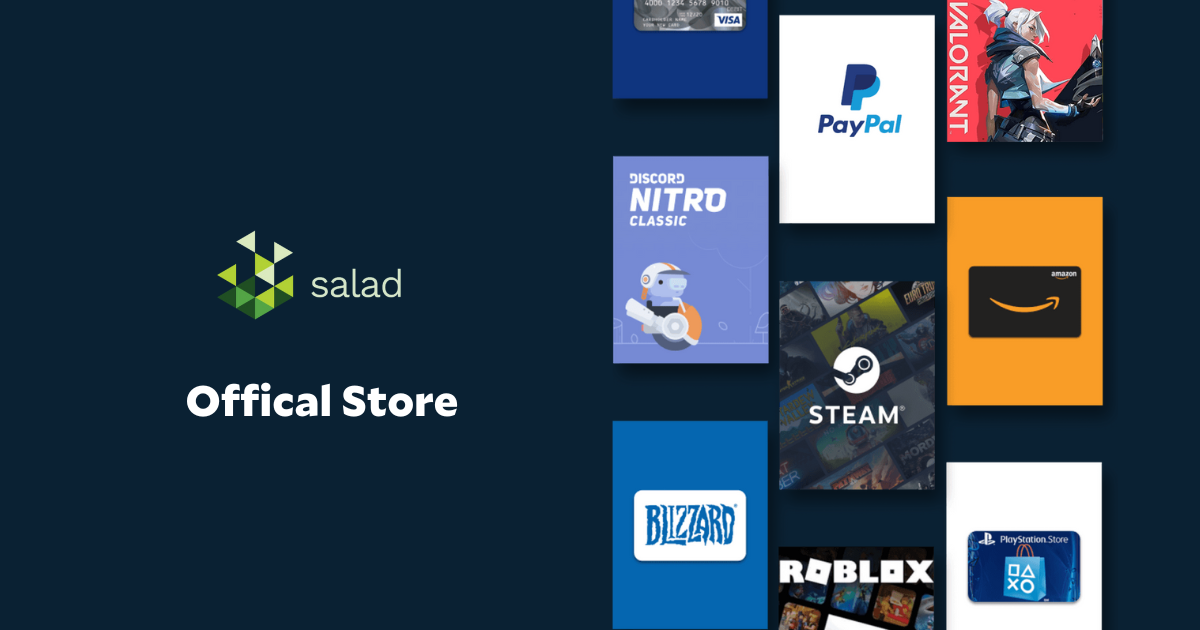
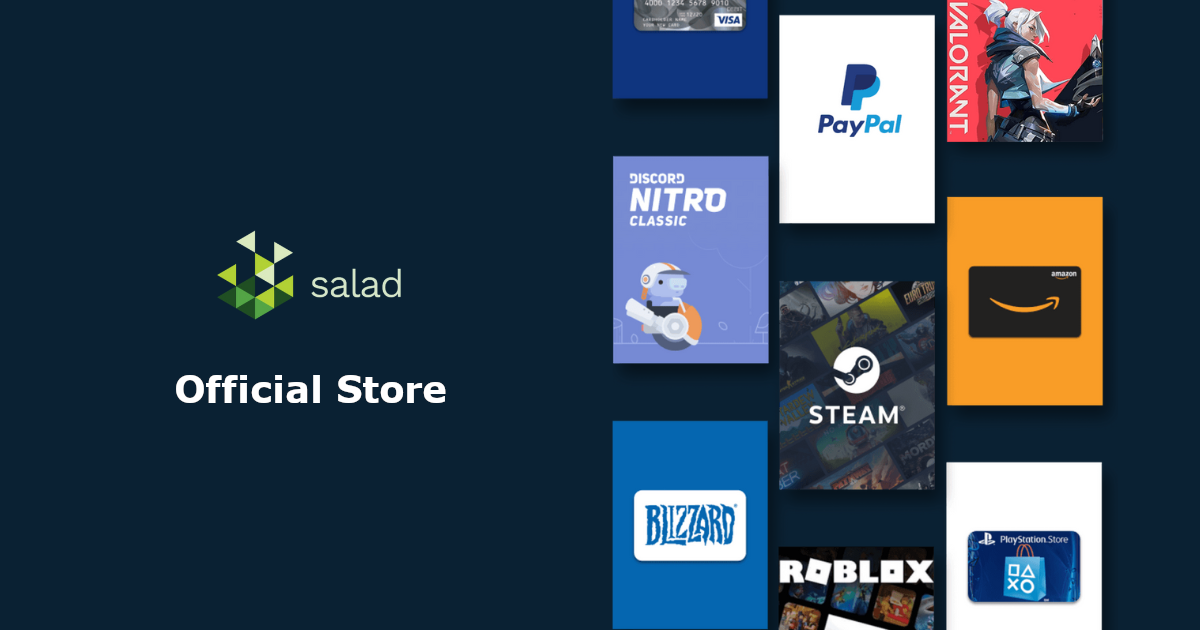
fix image and rename hook

Changed region(s): [[0.1233, 0.573, 0.4008, 0.6635]]

diff --git a/packages/web-app/src/hooks/useAddOgMetaTags.tsx b/packages/web-app/src/hooks/useAddOgMetaTags.tsx
@@ -1,10 +1,15 @@
 import { useEffect } from 'react'
 
-export const useAddOgMetaTags = (ogMetaTagsRecord: Record<string, string>) => {
+const defaultOgMetaTags = {
+  url: window.location.href,
+  type: 'website',
+}
+
+export const useAddOgMetaTags = (ogMetaTags: Record<string, string>) => {
   useEffect(() => {
-    Object.keys(ogMetaTagsRecord).forEach((ogMetaTagPropertyName) => {
+    Object.keys({ ...ogMetaTags, ...defaultOgMetaTags }).forEach((ogMetaTagPropertyName) => {
       const ogMetaTag = document.querySelector(`meta[property='og:${ogMetaTagPropertyName}']`)
-      const ogMetaTagContent = ogMetaTagsRecord[ogMetaTagPropertyName] as string
+      const ogMetaTagContent = ogMetaTags[ogMetaTagPropertyName] as string
 
       if (ogMetaTag) {
         ogMetaTag.setAttribute('content', ogMetaTagContent)
@@ -15,5 +20,5 @@ export const useAddOgMetaTags = (ogMetaTagsRecord: Record<string, string>) => {
         document.head.appendChild(newOgMetaTag)
       }
     })
-  }, [ogMetaTagsRecord])
+  }, [ogMetaTags])
 }

diff --git a/packages/web-app/src/modules/storefront-views/pages/StorefrontPage.tsx b/packages/web-app/src/modules/storefront-views/pages/StorefrontPage.tsx
@@ -32,14 +32,11 @@ interface Props extends WithStyles<typeof styles> {
 }
 
 const _StorefrontPage = ({ data, classes }: Props) => {
-  const { href, origin } = window.location
-
   const ogMetaTags = {
-    url: href,
     title: 'Salad - Official Store',
     description:
       'Salad helps you earn your way to new Steam Games, Discord Nitro, gift cards, and more from the Salad Storefront. You can even send Salad Balance to PayPal and redeem digital Visa and Mastercard that can be used worldwide!',
-    image: `${origin}/og-official-store.png`,
+    image: `${window.location.origin}/og-official-store.png`,
     'image:alt': 'Salad - Official Store',
   }
   useAddOgMetaTags(ogMetaTags)

diff --git a/packages/web-app/src/modules/reward-views/pages/RewardDetailsPage/RewardDetailsPage.tsx b/packages/web-app/src/modules/reward-views/pages/RewardDetailsPage/RewardDetailsPage.tsx
@@ -72,11 +72,9 @@ const _RewardDetailsPage: FC<Props> = ({
     loadReward?.(rewardId)
   }, [loadReward, rewardId])
 
-  const locationHref = window.location.href
   const { name, heroImage, coverImage } = reward || {}
 
   const ogMetaTags = {
-    url: locationHref,
     title: `Get ${name} with the power of your PC with Salad`,
     description: `Salad helps you earn your way to rewards like ${name}, Steam Games, Discord Nitro, and more from the Salad Storefront. You can even send Salad Balance to PayPal and redeem digital Visa and Mastercard that can be used worldwide!`,
     image: heroImage ?? coverImage ?? '',
